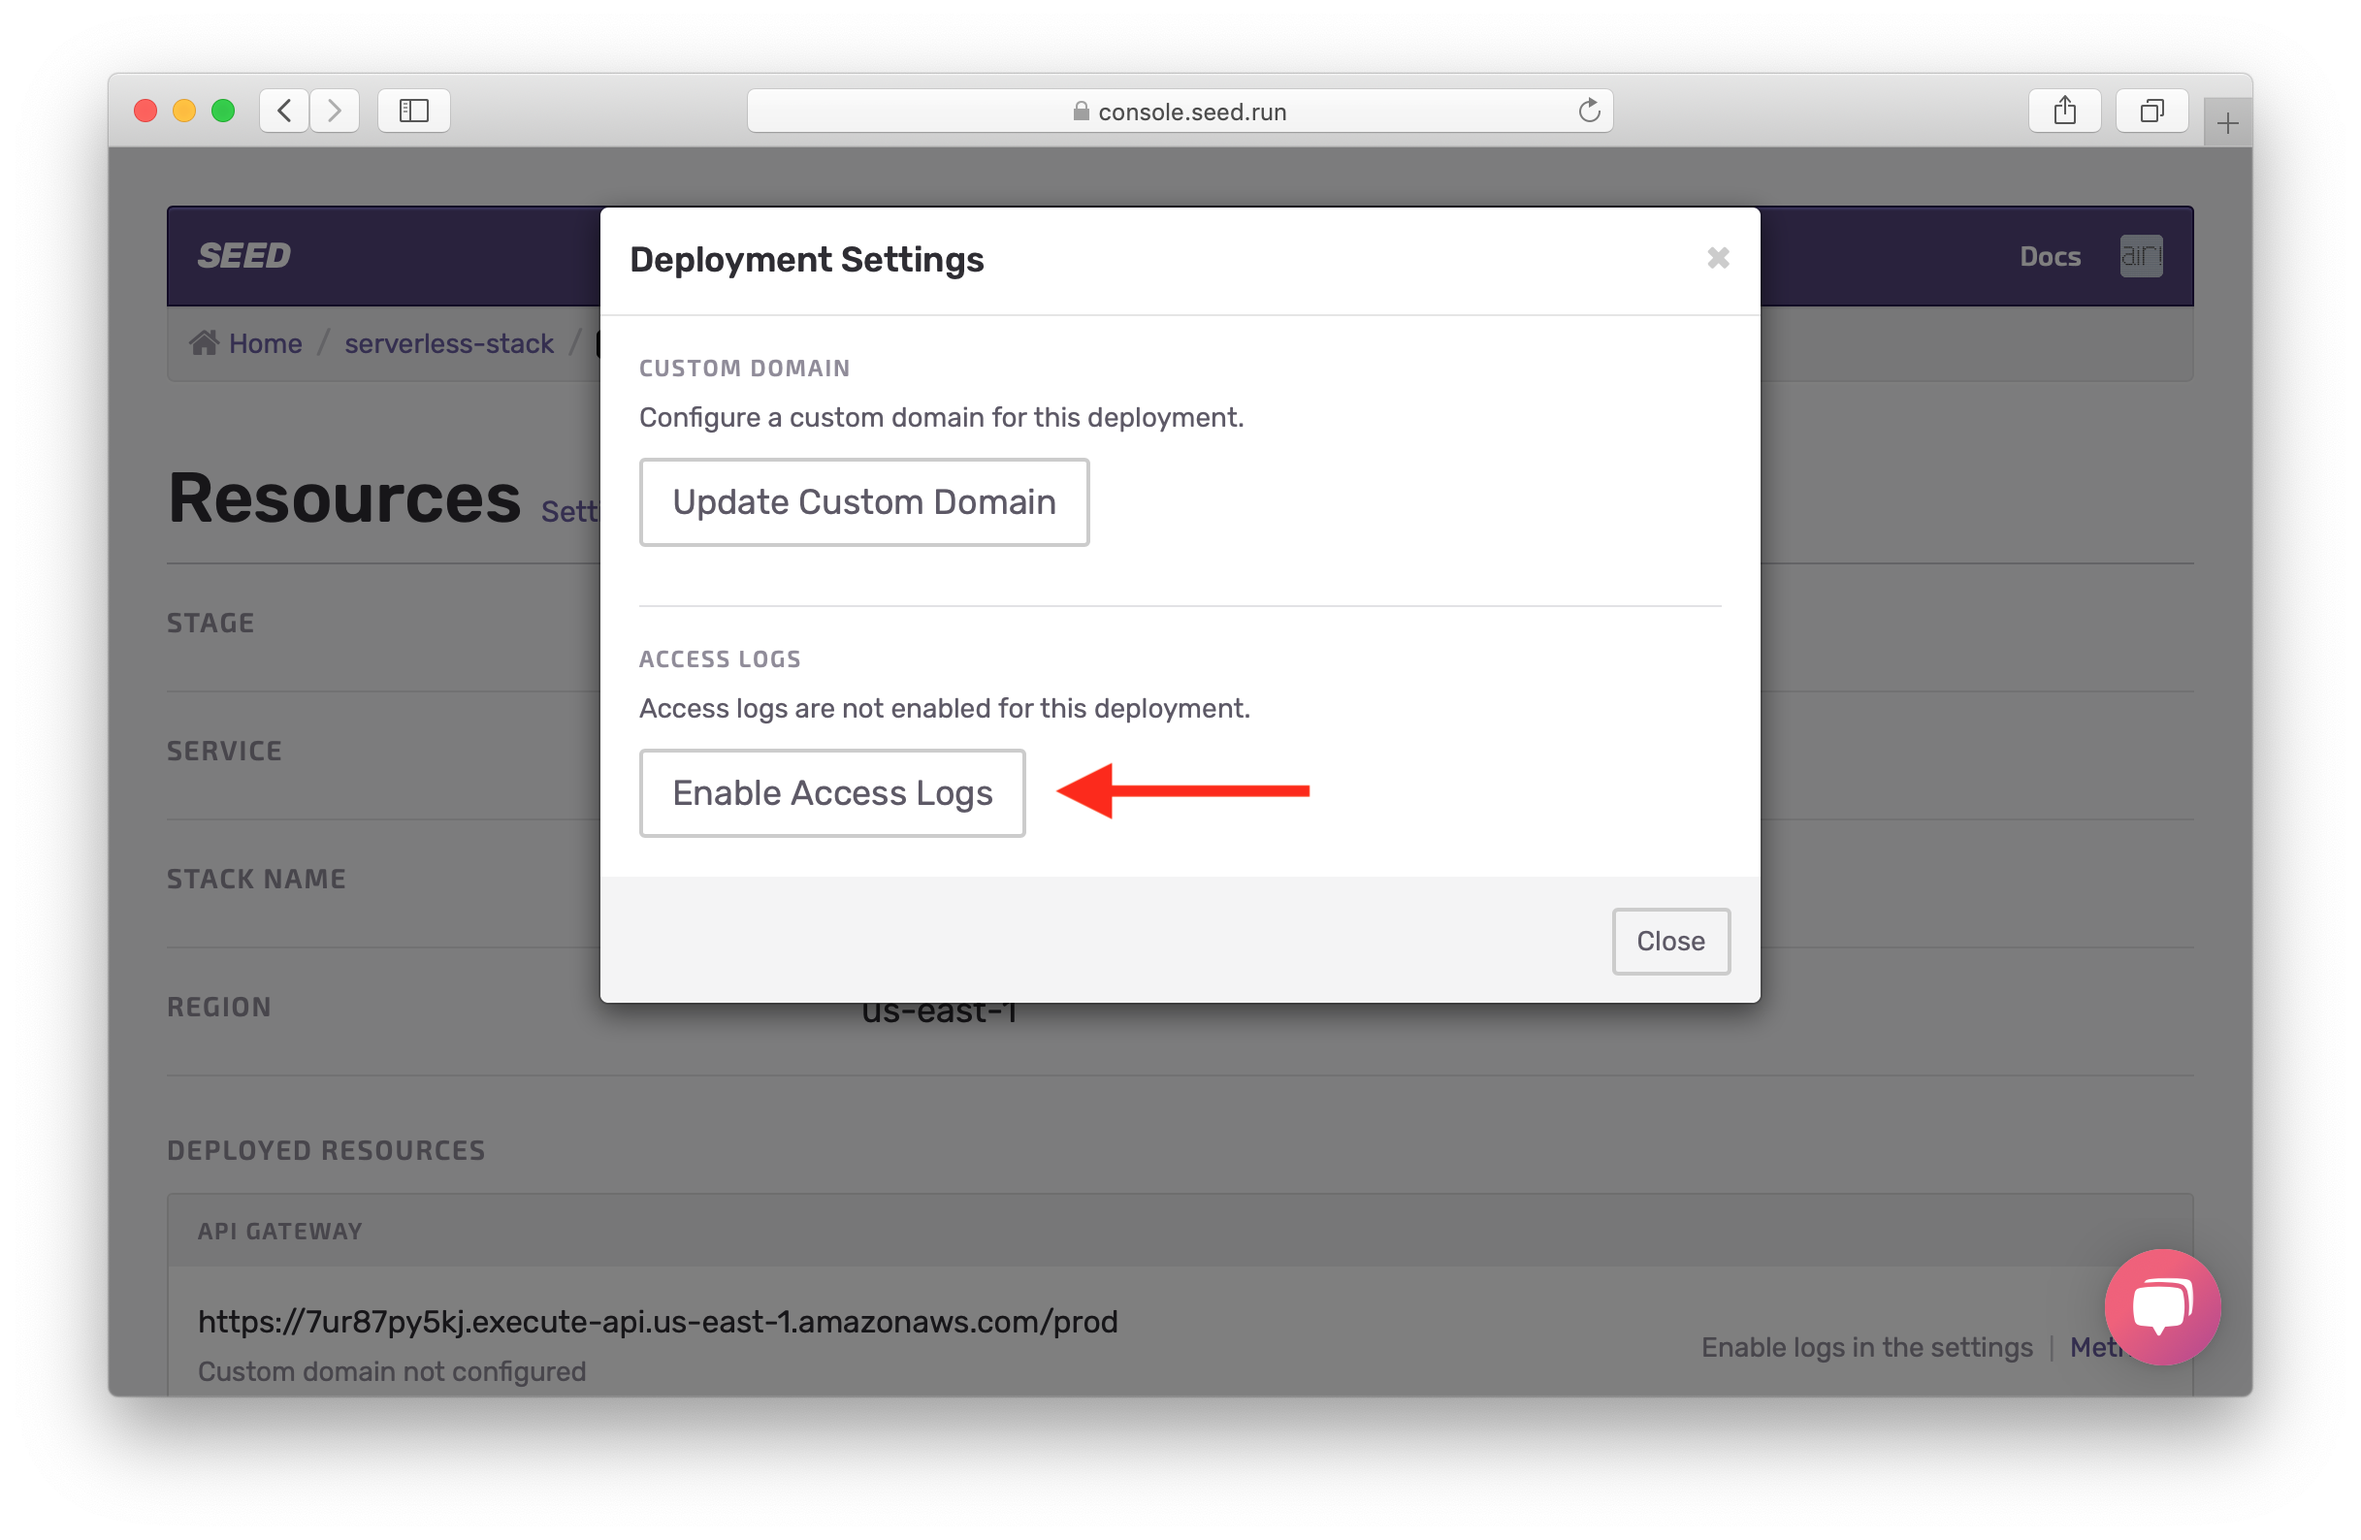
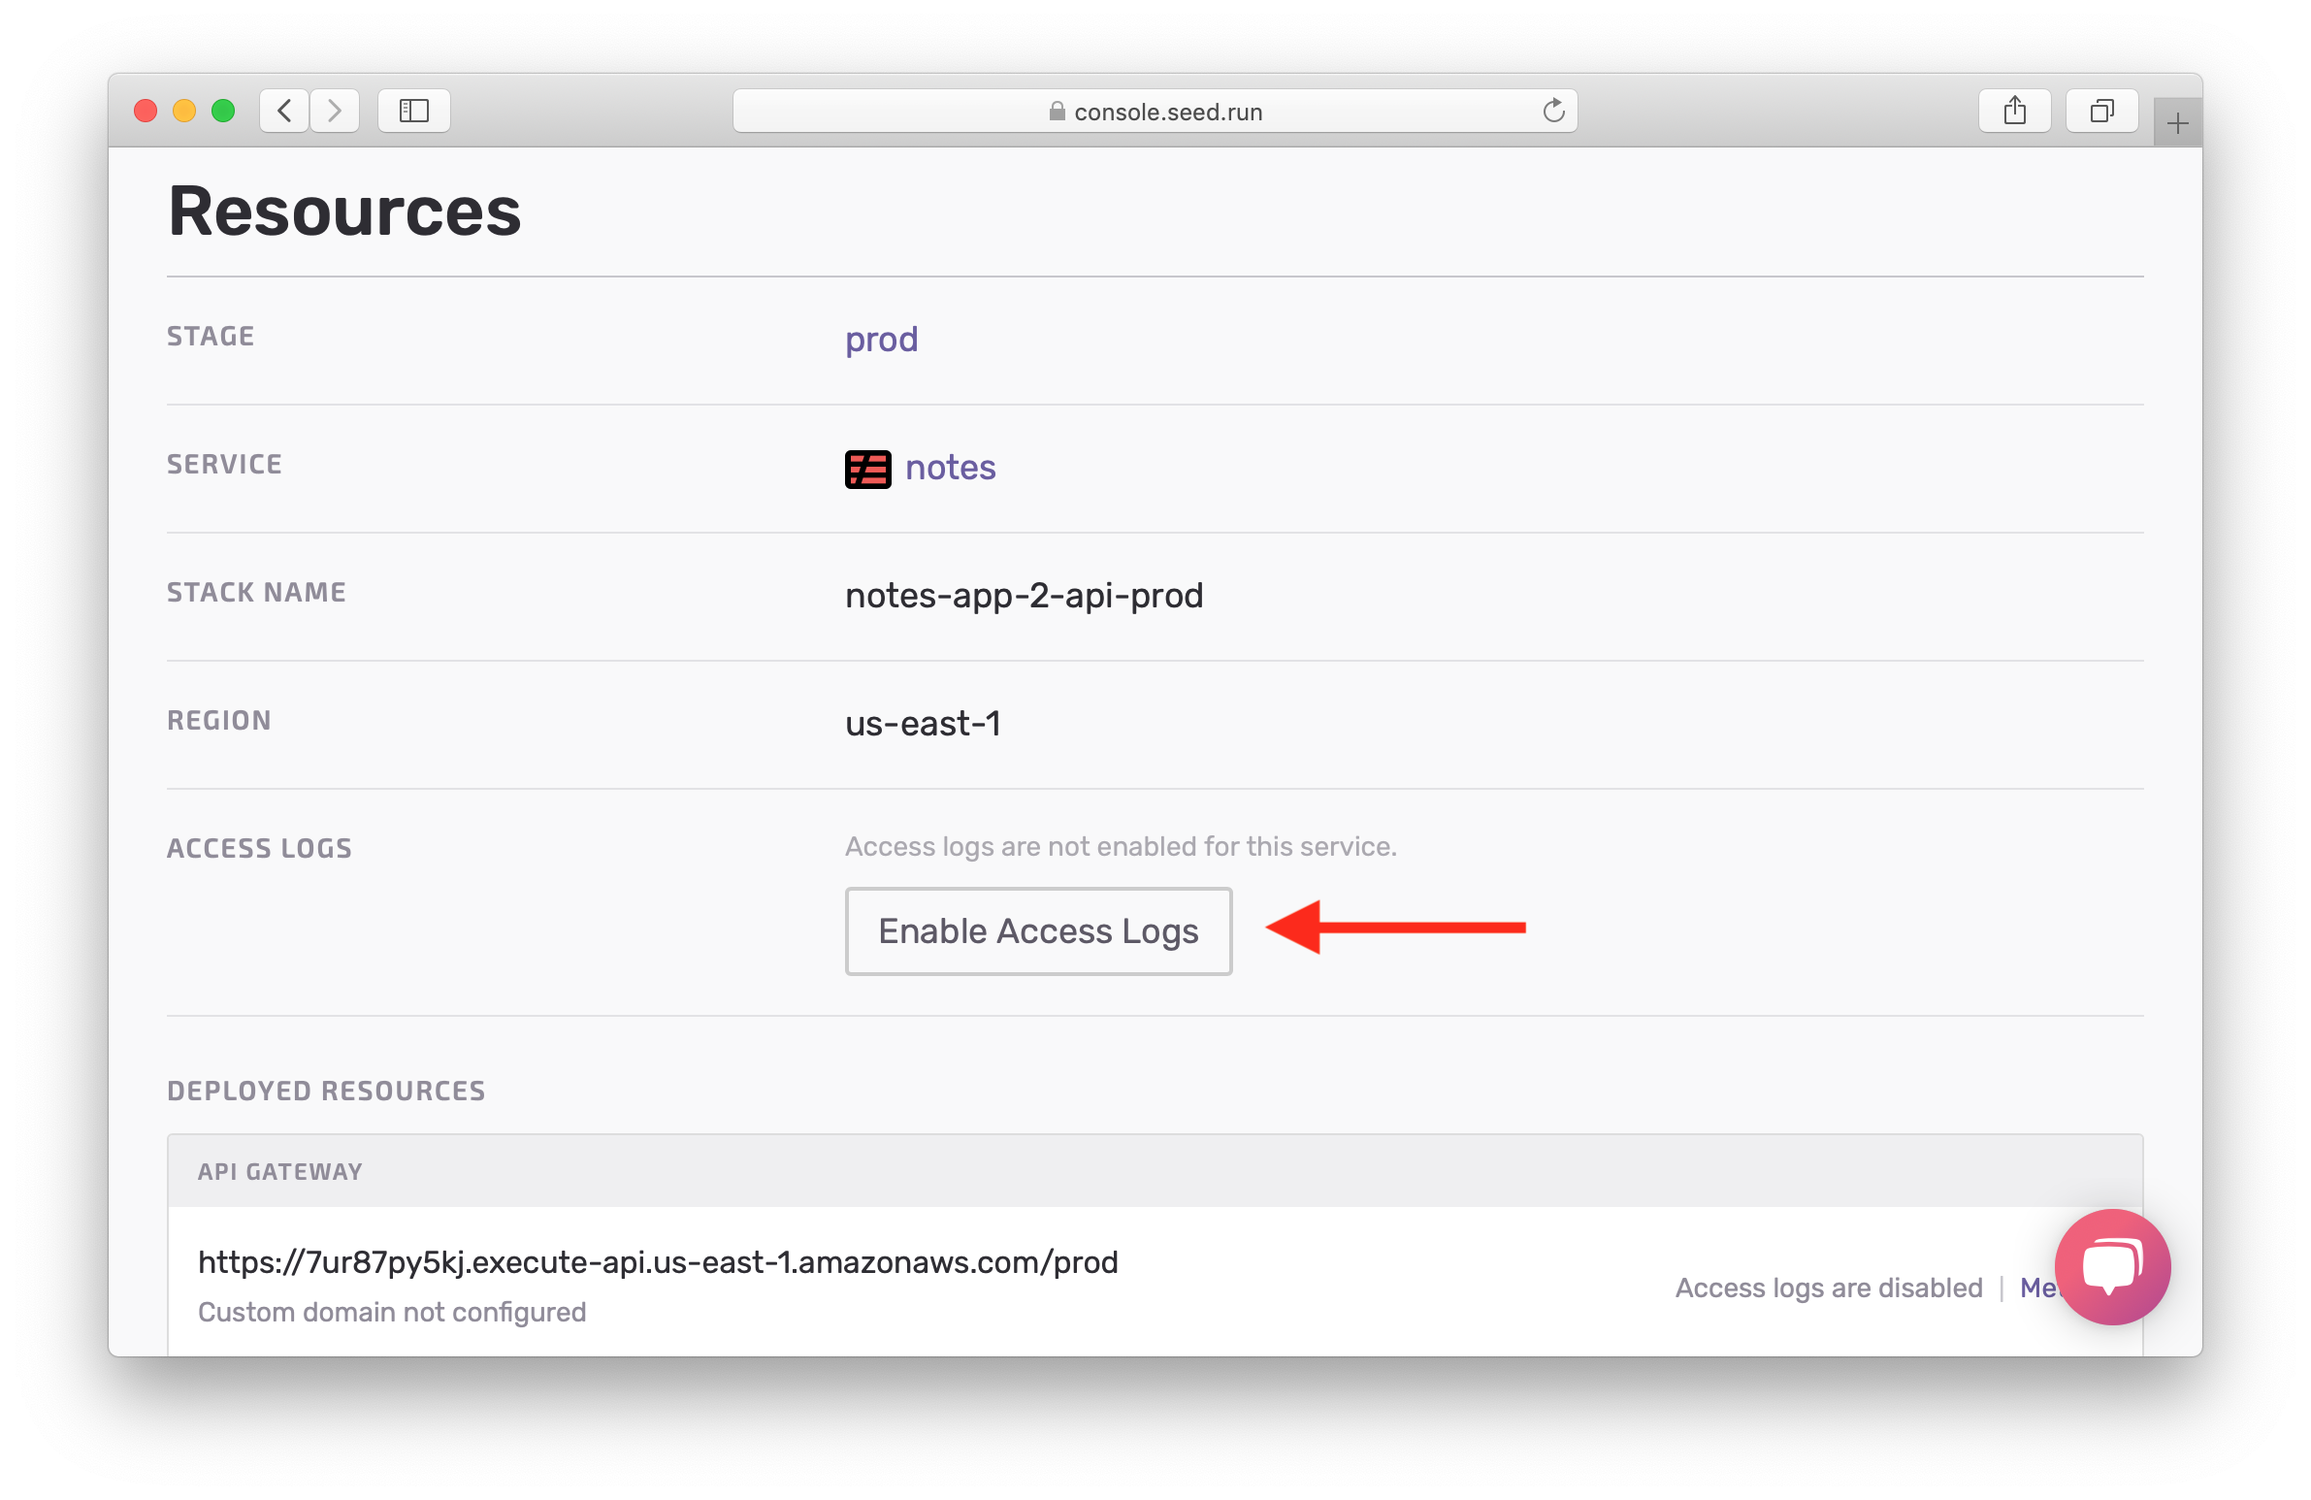
Updating steps for custom domains and access logs for Seed

diff --git a/_chapters/set-custom-domains-through-seed.md b/_chapters/set-custom-domains-through-seed.md
@@ -11,30 +11,30 @@ comments_id: set-custom-domains-through-seed/178
 
 Our serverless API uses API Gateway and it gives us some auto-generated endpoints. We would like to configure them to use a scheme like `api.my-domain.com` or something similar. This can take a few different steps through the AWS Console, but it is pretty straightforward to configure through [Seed](https://seed.run).
 
-From our **prod** stage, click on **View Resources**.
+Head over to our app settings.
 
-![Prod stage view deployment screenshot](/assets/part2/prod-stage-view-deployment.png)
+![Seed app pipeline screenshot](/assets/part2/seed-app-pipeline.png)
 
-This shows you a list of the API endpoints and Lambda functions that are a part of this deployment. Now click on **Settings**.
+Here click on **Edit Custom Domains**.
 
-![Prod stage deployment screenshot](/assets/part2/prod-stage-deployment.png)
+![Click Edit Custom Domains in app settings screenshot](/assets/part2/click-edit-custom-domains-in-app-settings.png)
 
-And hit **Update Custom Domain**.
+And click **Add** for our production endpoint.
 
-![Custom domain panel prod screenshot](/assets/part2/custom-domain-panel-prod.png)
+![Click Add for production endpoint in custom domain settings](/assets/part2/click-add-for-production-endpoint-in-custom-domain-settings.png)
 
 In the first part of the tutorial we had added our domain to Route 53. If you haven't done so you can [read more about it here](https://docs.aws.amazon.com/Route53/latest/DeveloperGuide/MigratingDNS.html). Hit **Select a domain** and you should see a list of all your Route 53 domains. Select the one you intend to use. And fill in the sub-domain and base path. For example, you could use `api.my-domain.com/prod`; where `api` is the sub-domain and `prod` is the base path.
 
-And hit **Update**.
+And hit **Add Custom Domain**.
 
-![Custom domain details prod screenshot](/assets/part2/custom-domain-details-prod.png)
+![Click Add Custom Domain button for prod endpoint](/assets/part2/click-add-custom-domain-button-for-prod-endpoint.png)
 
 Seed will now go through and configure the domain for this API Gateway endpoint, create the SSL certificate and attach it to the domain. This process can take up to 40 mins.
 
-While we wait, we can do the same for our `dev` stage. Go into the **dev** stage > click **View Deployment** > click **Settings** > and hit **Update Custom Domain**. And select the domain, sub-domain, and base path. In our case we'll use something like `api.my-domain.com/dev`.
+While we wait, we can do the same for our `dev` endpoint. Select the domain, sub-domain, and base path. In our case we'll use something like `api.my-domain.com/dev`.
 
-![Custom domain details dev screenshot](/assets/part2/custom-domain-details-dev.png)
+![Click Add Custom Domain button for dev endpoint](/assets/part2/click-add-custom-domain-button-for-dev-endpoint.png)
 
-Hit **Update** and wait for the changes to take place.
+Hit **Add Custom Domain** and wait for the changes to take place.
 
 Once complete, we are ready to test our fully-configured serverless API backend!

diff --git a/_chapters/monitoring-deployments-in-seed.md b/_chapters/monitoring-deployments-in-seed.md
@@ -46,10 +46,6 @@ Now before we test our faulty code, we'll turn on API Gateway access logs so we 
 
 ![Click View Deployment in prod screenshot](/assets/part2/click-view-deployment-in-prod.png)
 
-Hit **Settings**.
-
-![Click deployment settings in prod screenshot](/assets/part2/click-deployment-settings-in-prod.png)
-
 Hit **Enable Access Logs**.
 
 ![Enable access logs in prod screenshot](/assets/part2/enable-access-logs-in-prod.png)
